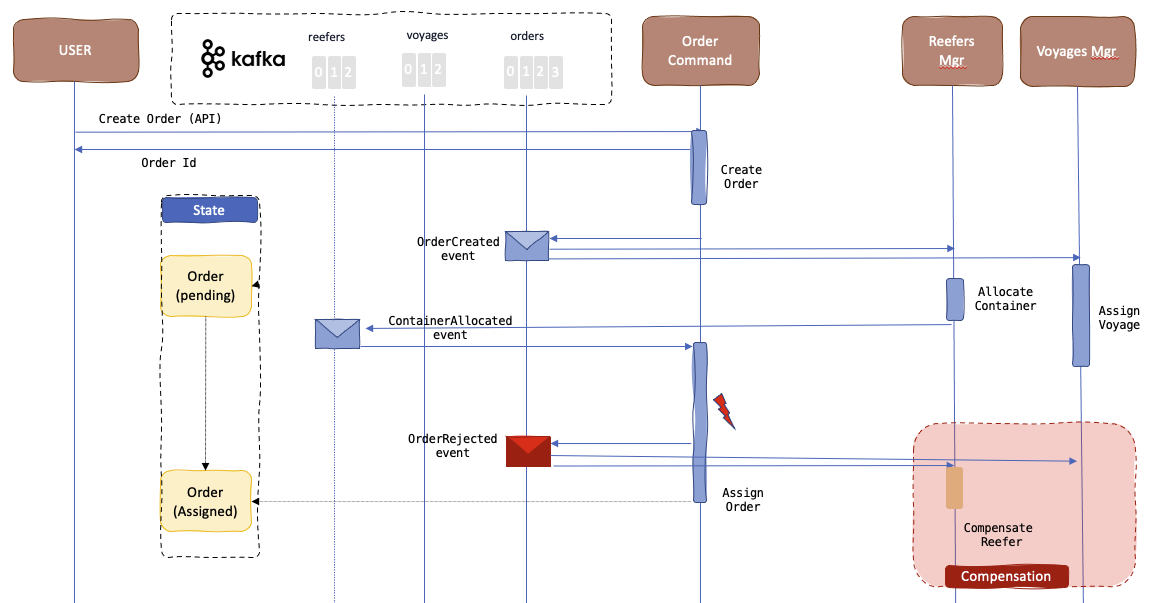
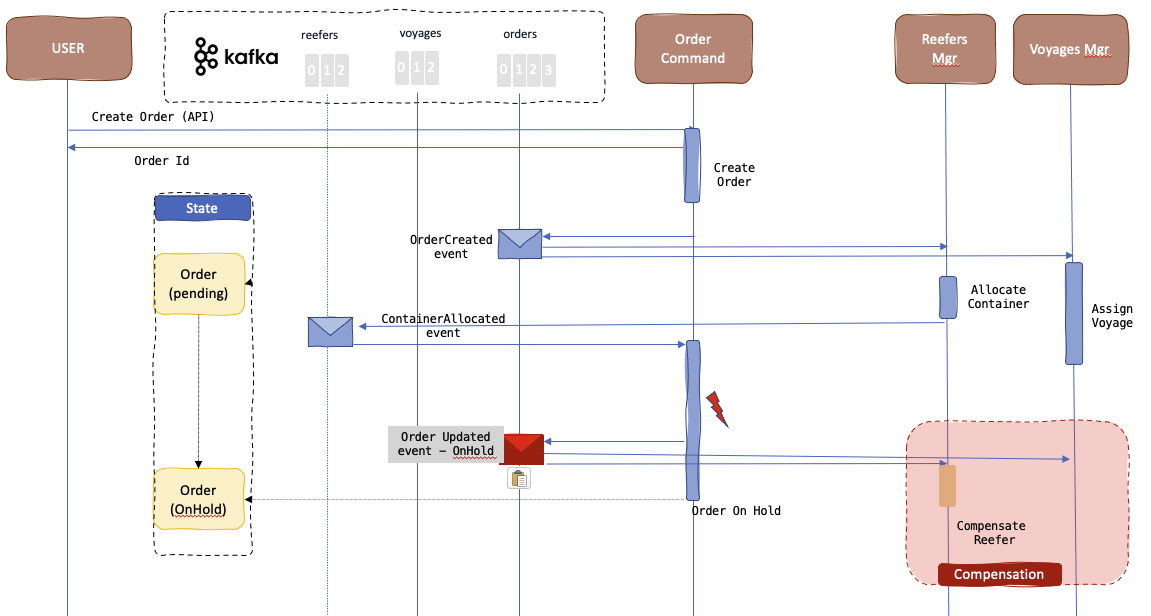
update on order on hold and and github action

diff --git a/docs/index.md b/docs/index.md
@@ -10,7 +10,7 @@ With microservice each transaction updates data within a single service, each su
 
 We have implemented the SAGA pattern in the Reefer Container Shipment Reference Application for the scenario where an order, to carry fresh goods from an origin port to a destination port, is created by a customer. The Choreography variant of the SAGA pattern, done with Kafka, involves strong decoupling between services, and each participants listen to facts and act on them independently. So each service will have at least one topic representing states on their own entity. In the figure below the saga is managed in the context of the order microservice in one of the business function like `createOrder`.
 
-![choreography](./images/saga-orchestration.png)
+![choreography](./images/saga-choreography.png)
 
 The figure above illustrates that each services uses its own topic in Kafka, so to manage the saga the Order service needs to listen to all participants outcome.
 
@@ -98,6 +98,26 @@ In this repository, we have define a docker compose file that let you run the de
 docker-compose up -d
 ```
 
+### Verify the data
+
+* Look available voyages, can be seen via API or Swagger UI [https://localhost:8082/q/swagger-ui](https://localhost:8082/q/swagger-ui)
+
+```sh
+curl -X 'GET' 'http://localhost:8082/api/v1/voyages' -H 'accept: application/json' | jq
+```
+
+* Look available Refrigerator containers, can be seen via API or Swagger UI [https://localhost:8081/q/swagger-ui](https://localhost:8081/q/swagger-ui)
+
+```sh
+curl -X 'GET' 'http://localhost:8081/api/v1/reefers' -H 'accept: application/json' | jq
+```
+
+* Validate Order service by looking at current orders via API or Swagger UI [https://localhost:8080/q/swagger-ui](https://localhost:8080/q/swagger-ui)
+
+```sh
+curl -X 'GET' 'http://localhost:8080/api/v1/orders' -H 'accept: application/json' | jq
+```
+
 ### Happy path demonstration
 
 * Execute the create order
@@ -146,13 +166,41 @@ The order has a pickup city set to Boston, and there is no reefer available at t
 
 * Send an order from Boston
 
-```sh
-./e2e/sendNonPossibleOrder.sh
-```
+    ```sh
+    ./e2e/sendNonPossibleOrder.sh
+    ```
 
-* Verify order created event reaches voyage and reefer microservices
-* Voyage generates a event for voyages allocated.
+    ![](./images/boston-order.png)
+
+* Verify order created event reaches voyage service:
+
+    ```logs
+    09:45:06 INFO  [ib.ed.kc.vo.in.ev.or.OrderAgent] (vert.x-eventloop-thread-5) Received order : NAOrder01
+    09:45:06 INFO  [ib.ed.kc.vo.in.ev.vo.VoyageEventProducer] (vert.x-eventloop-thread-5) Send voyage message --> V005 ts: 1652805906035
+    ```
+
+* and the reefer microservices
+
+    ```logs
+    09:45:05 INFO  [ib.ed.kc.fr.in.ev.or.OrderAgent] (vert.x-eventloop-thread-6) Received order : NAOrder01
+    ```
+
+* Voyage generates an event for voyages allocated.
+
+* Order microservice timeout as it does not get an answer from Reefer, so it put the order on-Hold and send an order updated event
+
+    ![](./images/order-onhold.png)
+
+* Voyage is compensated.
+
 
 ## Deploy with Event Streams on OpenShift
 
 TBD
+
+???- "More reading"
+    * [Deduction-Based Polymorphism in Jackson 2.12](https://www.baeldung.com/jackson-deduction-based-polymorphism)
+    * [Smallrye - reactive messaging](https://smallrye.io/smallrye-reactive-messaging/3.14.1/)
+    * [Saga design pattern](https://ibm-cloud-architecture.github.io/refarch-eda/patterns/saga/)
+    * [Quarkus Kafka reference guide](https://quarkus.io/guides/kafka#testing-without-a-broker)
+    * [Quarkus SCHEDULING PERIODIC TASKS](https://quarkus.io/guides/scheduler#standard-scheduling)
